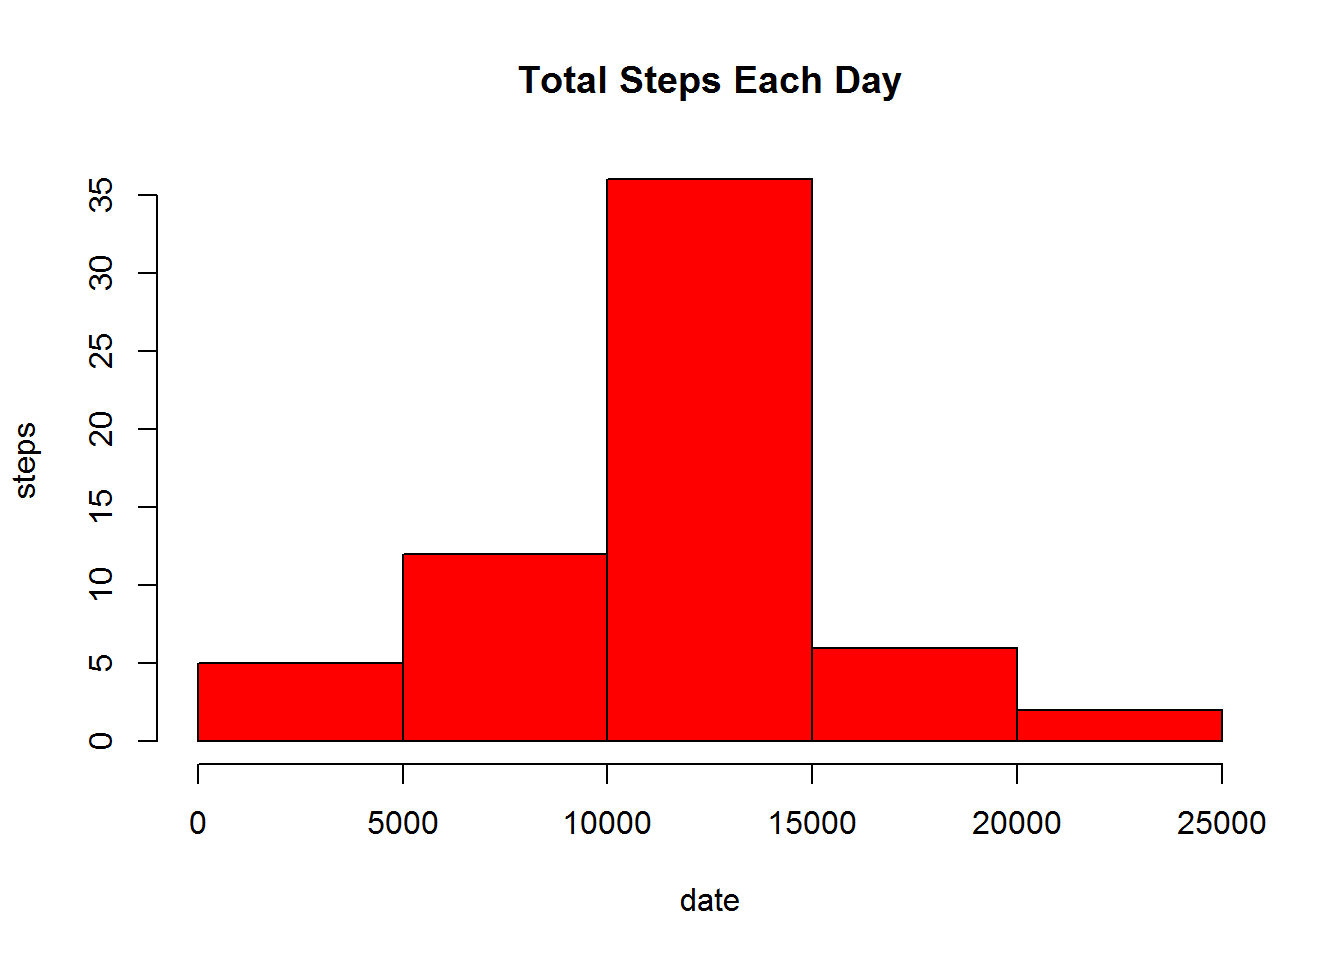
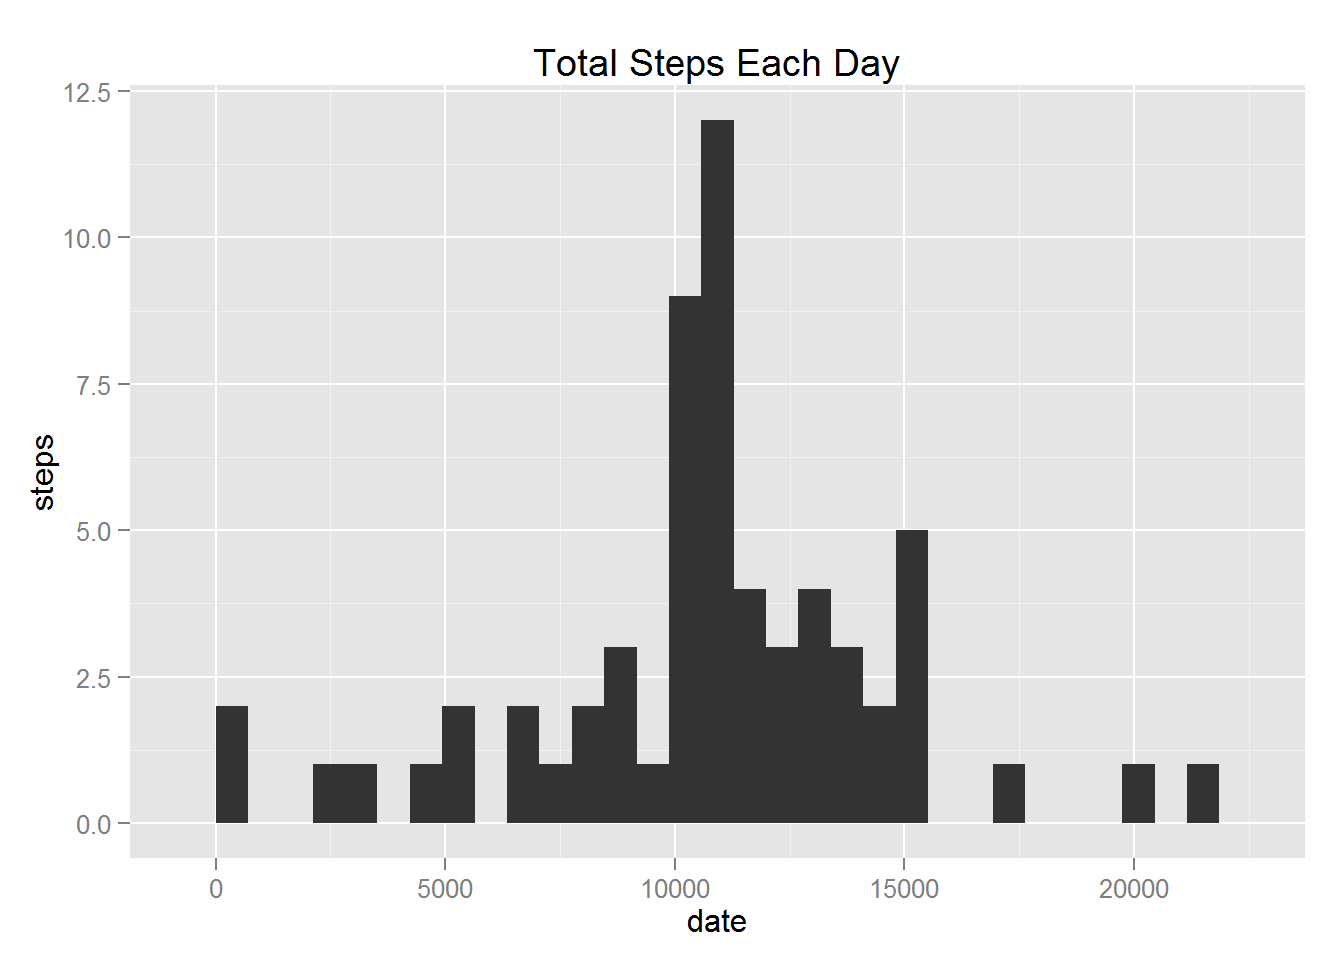
new plot

diff --git a/PA1_template.html b/PA1_template.html
@@ -220,10 +220,14 @@ hr {
 </ol>
 
 <pre><code class="r">steps.date &lt;- aggregate(steps ~ date, data = activity, FUN = sum)
-hist(steps.date$steps, main = &quot;Total Steps Each Day&quot;, xlab = &quot;date&quot;, ylab = &quot;steps&quot;, col=&quot;blue&quot;)
+library(&quot;ggplot2&quot;)
+qplot(steps.date$steps, main = &quot;Total Steps Each Day&quot;, xlab = &quot;date&quot;, ylab = &quot;steps&quot;)
 </code></pre>
 
[1 lines of base64/hex data omitted]
+<pre><code>## stat_bin: binwidth defaulted to range/30. Use &#39;binwidth = x&#39; to adjust this.
+</code></pre>
+
[1 lines of base64/hex data omitted]
 
 <ol>
 <li>Calculate and report the mean and median of the total number of steps taken per day</li>
@@ -233,8 +237,10 @@ hist(steps.date$steps, main = &quot;Total Steps Each Day&quot;, xlab = &quot;dat
 median_step &lt;- median(steps.date$steps)
 </code></pre>
 
-<p>Mean: 1.0766189 &times; 10<sup>4</sup>
-Median: 10765</p>
+<ul>
+<li>Mean: 1.0766189 &times; 10<sup>4</sup></li>
+<li>Median: 10765</li>
+</ul>
 
 <h2>What is the average daily activity pattern?</h2>
 
@@ -251,7 +257,9 @@ plot(average_steps.interval, type = &quot;l&quot;)
 <pre><code class="r">max_interval &lt;-average_steps.interval$interval[which.max(average_steps.interval$steps)]
 </code></pre>
 
-<p>The interval contains the maximum number of steps is: 835</p>
+<ul>
+<li>The interval contains the maximum number of steps is: 835</li>
+</ul>
 
 <h2>Imputing missing values</h2>
 
@@ -260,11 +268,15 @@ plot(average_steps.interval, type = &quot;l&quot;)
 <pre><code class="r">total_miss_value&lt;- length(which(is.na(activity$steps)))
 </code></pre>
 
-<p>The total number of missing values in the dataset is: 2304 </p>
+<ul>
+<li>The total number of missing values in the dataset is: 2304 </li>
+</ul>
 
 <p>2.Devise a strategy for filling in all of the missing values in the dataset.</p>
 
-<p>The strategy that I am using at here is to use the means for the 5-minute intervals as fillers for missing values.</p>
+<ul>
+<li>The strategy that I am using at here is to use the means for the 5-minute intervals as fillers for missing values.</li>
+</ul>
 
 <p>3.Create a new dataset that is equal to the original dataset but with the missing data filled in.</p>
 
@@ -278,29 +290,42 @@ new_activity &lt;- new_activity[, c(1:3)]
 <p>4.Make a histogram of the total number of steps taken each day and Calculate and report the mean and median total number of steps taken per day.</p>
 
 <pre><code class="r">new_steps.date &lt;- aggregate(steps ~ date, data = new_activity, FUN = sum)
-hist(new_steps.date$steps, main = &quot;Total Steps Each Day&quot;, xlab = &quot;date&quot;, ylab = &quot;steps&quot;, col=&quot;Red&quot;)
+qplot(new_steps.date$steps, main = &quot;Total Steps Each Day&quot;, xlab = &quot;date&quot;, ylab = &quot;steps&quot;)
 </code></pre>
 
[1 lines of base64/hex data omitted]
+<pre><code>## stat_bin: binwidth defaulted to range/30. Use &#39;binwidth = x&#39; to adjust this.
+</code></pre>
+
[1 lines of base64/hex data omitted]
 
 <pre><code class="r">new_mean_step &lt;- mean(new_steps.date$steps)
 new_median_step &lt;- median(new_steps.date$steps)
 </code></pre>
 
-<p>Mean: 1.0766189 &times; 10<sup>4</sup>
-Median: 1.0766189 &times; 10<sup>4</sup></p>
+<ul>
+<li>Mean: 1.0766189 &times; 10<sup>4</sup></li>
+<li>Median: 1.0766189 &times; 10<sup>4</sup></li>
+</ul>
 
 <p>Do these values differ from the estimates from the first part of the assignment? </p>
 
-<p>Before imputing missing data
-  Mean: 1.0766189 &times; 10<sup>4</sup>
-  Median: 10765</p>
+<ul>
+<li>yes.  The mean value unchanged but the median value increased and it is the same as mean.</li>
+</ul>
 
-<p>After imputing missing data
-  Mean: 1.0766189 &times; 10<sup>4</sup>
-  Median: 1.0766189 &times; 10<sup>4</sup></p>
+<p>Before imputing missing data</p>
 
-<p>yes.  The mean value unchanged but the median value increased and it is the same as mean.</p>
+<ul>
+<li>Mean: 1.0766189 &times; 10<sup>4</sup></li>
+<li>Median: 10765</li>
+</ul>
+
+<p>After imputing missing data</p>
+
+<ul>
+<li>Mean: 1.0766189 &times; 10<sup>4</sup></li>
+<li>Median: 1.0766189 &times; 10<sup>4</sup></li>
+</ul>
 
 <p>What is the impact of imputing missing data on the estimates of the total daily number of steps?</p>
 

diff --git a/PA1_template.md b/PA1_template.md
@@ -26,7 +26,12 @@ activity$date <- as.Date(activity$date, "%Y-%m-%d")
 
 ```r
 steps.date <- aggregate(steps ~ date, data = activity, FUN = sum)
-hist(steps.date$steps, main = "Total Steps Each Day", xlab = "date", ylab = "steps", col="blue")
+library("ggplot2")
+qplot(steps.date$steps, main = "Total Steps Each Day", xlab = "date", ylab = "steps")
+```
+
+```
+## stat_bin: binwidth defaulted to range/30. Use 'binwidth = x' to adjust this.
 ```
 
 ![plot of chunk unnamed-chunk-3](figure/unnamed-chunk-3-1.png) 
@@ -37,8 +42,8 @@ hist(steps.date$steps, main = "Total Steps Each Day", xlab = "date", ylab = "ste
 mean_step <- mean(steps.date$steps)
 median_step <- median(steps.date$steps)
 ```
-Mean: 1.0766189 &times; 10<sup>4</sup>
-Median: 10765
+- Mean: 1.0766189 &times; 10<sup>4</sup>
+- Median: 10765
 
 ## What is the average daily activity pattern?
 
@@ -56,7 +61,8 @@ plot(average_steps.interval, type = "l")
 ```r
 max_interval <-average_steps.interval$interval[which.max(average_steps.interval$steps)]
 ```
-The interval contains the maximum number of steps is: 835
+
+- The interval contains the maximum number of steps is: 835
 
 ## Imputing missing values
 
@@ -66,11 +72,12 @@ The interval contains the maximum number of steps is: 835
 ```r
 total_miss_value<- length(which(is.na(activity$steps)))
 ```
-The total number of missing values in the dataset is: 2304 
+
+- The total number of missing values in the dataset is: 2304 
 
 2.Devise a strategy for filling in all of the missing values in the dataset.
       
-  The strategy that I am using at here is to use the means for the 5-minute intervals as fillers for missing values.
+- The strategy that I am using at here is to use the means for the 5-minute intervals as fillers for missing values.
 
 3.Create a new dataset that is equal to the original dataset but with the missing data filled in.
 
@@ -88,7 +95,11 @@ new_activity <- new_activity[, c(1:3)]
 
 ```r
 new_steps.date <- aggregate(steps ~ date, data = new_activity, FUN = sum)
-hist(new_steps.date$steps, main = "Total Steps Each Day", xlab = "date", ylab = "steps", col="Red")
+qplot(new_steps.date$steps, main = "Total Steps Each Day", xlab = "date", ylab = "steps")
+```
+
+```
+## stat_bin: binwidth defaulted to range/30. Use 'binwidth = x' to adjust this.
 ```
 
 ![plot of chunk unnamed-chunk-9](figure/unnamed-chunk-9-1.png) 
@@ -97,20 +108,22 @@ hist(new_steps.date$steps, main = "Total Steps Each Day", xlab = "date", ylab = 
 new_mean_step <- mean(new_steps.date$steps)
 new_median_step <- median(new_steps.date$steps)
 ```
-Mean: 1.0766189 &times; 10<sup>4</sup>
-Median: 1.0766189 &times; 10<sup>4</sup>
+- Mean: 1.0766189 &times; 10<sup>4</sup>
+- Median: 1.0766189 &times; 10<sup>4</sup>
 
 Do these values differ from the estimates from the first part of the assignment? 
-  
-  Before imputing missing data
-  Mean: 1.0766189 &times; 10<sup>4</sup>
-  Median: 10765
 
-  After imputing missing data
-  Mean: 1.0766189 &times; 10<sup>4</sup>
-  Median: 1.0766189 &times; 10<sup>4</sup>
+- yes.  The mean value unchanged but the median value increased and it is the same as mean.
   
-  yes.  The mean value unchanged but the median value increased and it is the same as mean.
+Before imputing missing data
+- Mean: 1.0766189 &times; 10<sup>4</sup>
+- Median: 10765
+
+After imputing missing data
+- Mean: 1.0766189 &times; 10<sup>4</sup>
+- Median: 1.0766189 &times; 10<sup>4</sup>
+  
+  
   
 What is the impact of imputing missing data on the estimates of the total daily number of steps?
   
